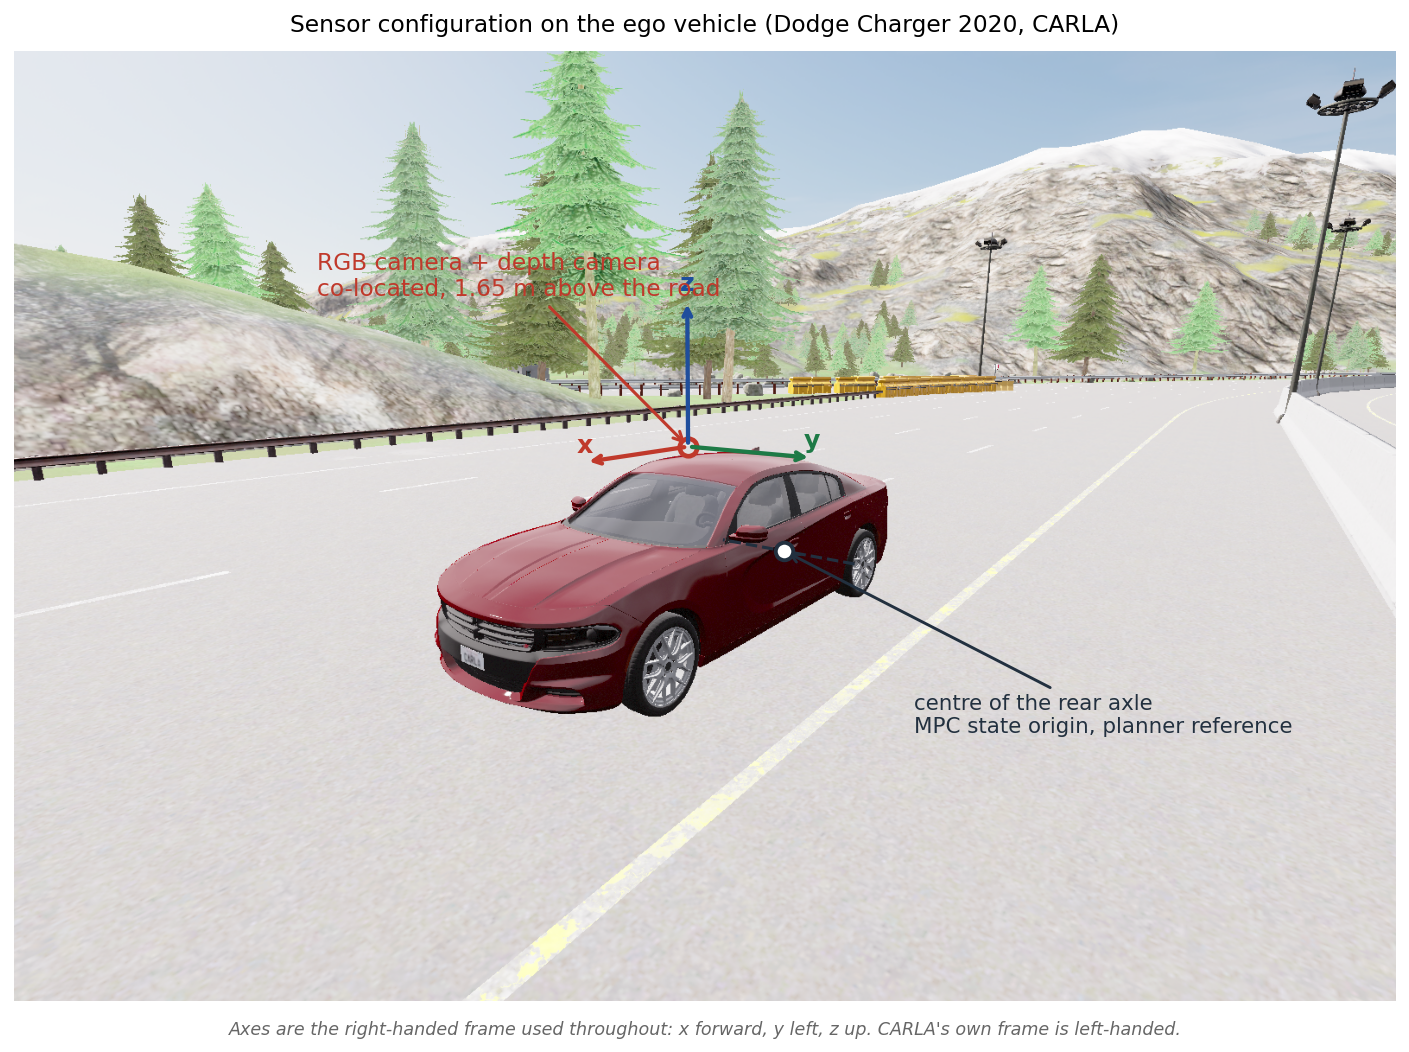
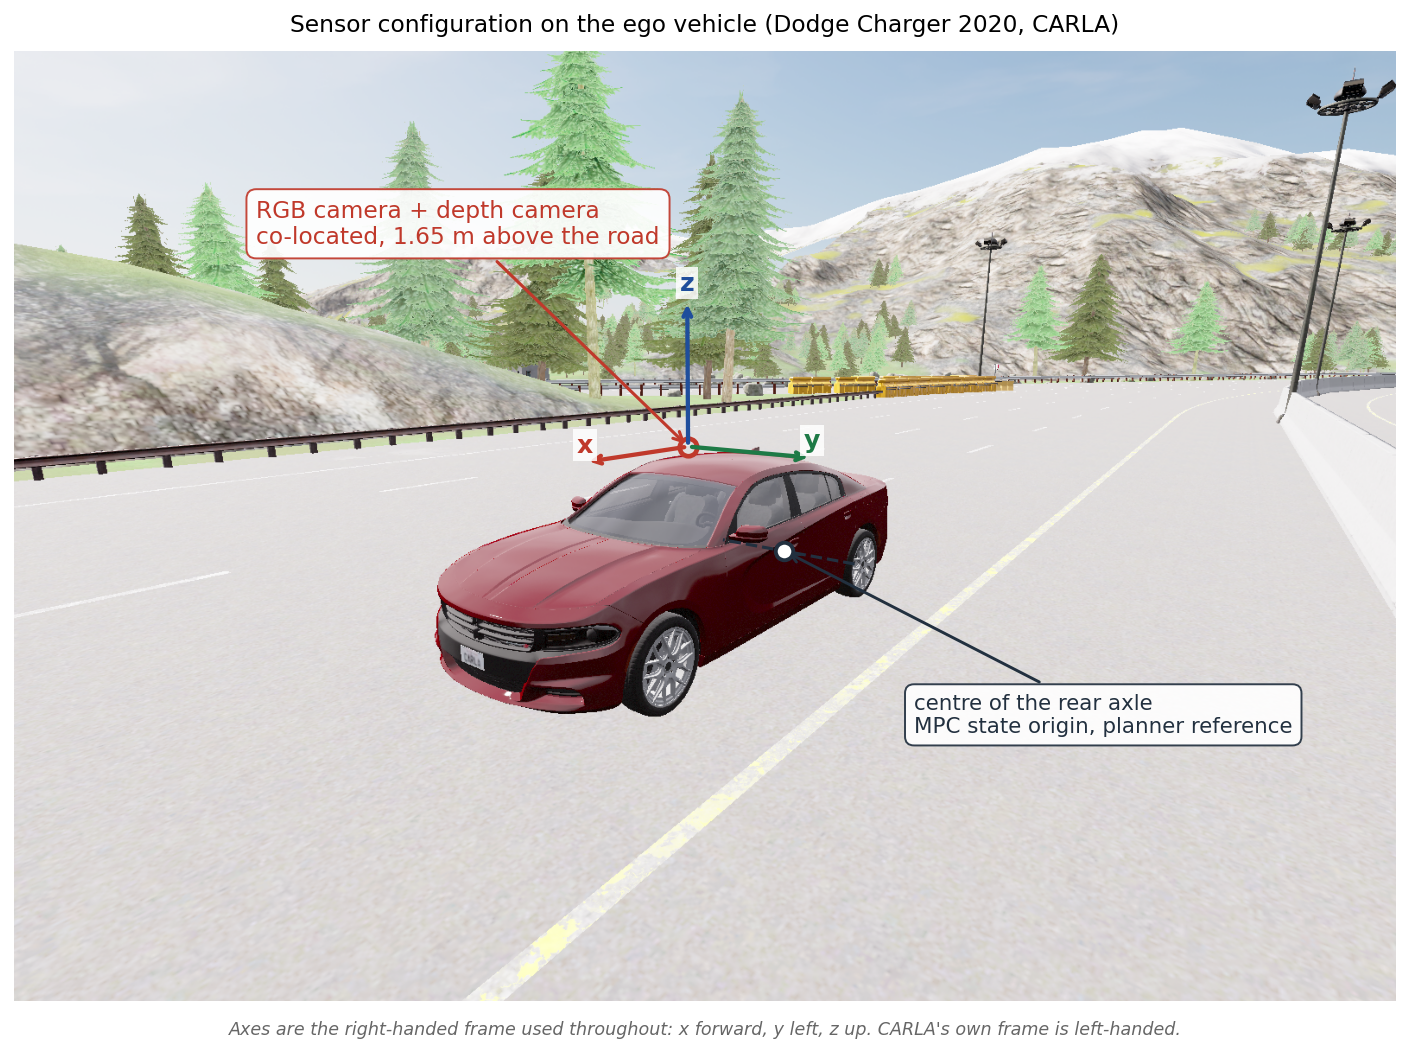
style: give the rig labels a background so they stay readable over the scene
Teks merah di atas pohon dan gunung hampir tidak terbaca. Kedua anotasi kini
punya latar putih berbingkai warna anotasinya sendiri, dan huruf sumbu x/y/z
diberi latar rapat tanpa bingkai.

Kotak teks kamera digeser lebih ke kiri-atas: di posisi lama ia menutupi label
sumbu z. Huruf sumbu juga dinaikkan zorder-nya supaya tergambar di atas kotak,
bukan tertimpa.

Perlakuan yang sama diberikan ke tampak atas hasil render, karena labelnya jatuh
di atas bodi mobil.

diff --git a/show_rig.py b/show_rig.py
@@ -109,18 +109,22 @@ def foto():
     ax.imshow(rgb); ax.axis('off')
     for (ux, uy), warna, nama in zip(ujung, (AKSEN, HIJAU, BIRU), ('x', 'y', 'z')):
         ax.annotate('', (ux, uy), uv_s, arrowprops=dict(arrowstyle='->', color=warna, lw=2.2))
-        ax.text(ux, uy - 12, nama, color=warna, fontsize=13, fontweight='bold', ha='center')
+        ax.text(ux, uy - 12, nama, color=warna, fontsize=13, fontweight='bold', ha='center',
+                zorder=8,
+                bbox=dict(boxstyle='square,pad=0.15', fc='white', ec='none', alpha=.85))
     ax.plot(*uv_s, marker='o', ms=9, mfc='none', mec=AKSEN, mew=2.4)
     ax.annotate('RGB camera + depth camera\nco-located, 1.65 m above the road',
-                uv_s, xytext=(uv_s[0] - 430, uv_s[1] - 175), color=AKSEN, fontsize=12,
-                arrowprops=dict(arrowstyle='->', color=AKSEN, lw=1.6))
+                uv_s, xytext=(uv_s[0] - 500, uv_s[1] - 235), color=AKSEN, fontsize=12,
+                arrowprops=dict(arrowstyle='->', color=AKSEN, lw=1.6),
+                bbox=dict(boxstyle='round,pad=0.42', fc='white', ec=AKSEN, lw=1.0, alpha=.92))
     # Ditaruh jauh ke kiri-bawah: di dekat markernya, teks ini jatuh di atas bodi.
     ax.plot(axle[:, 0], axle[:, 1], ls='--', lw=1.6, color=GARIS, zorder=4)
     ax.plot(*sumbu_belakang, marker='o', ms=9, mfc='white', mec=GARIS, mew=2.0, zorder=5)
     ax.annotate('centre of the rear axle\nMPC state origin, planner reference', sumbu_belakang,
                 xytext=(sumbu_belakang[0] + 150, sumbu_belakang[1] + 210),
                 color=GARIS, fontsize=11,
-                arrowprops=dict(arrowstyle='->', color=GARIS, lw=1.5))
+                arrowprops=dict(arrowstyle='->', color=GARIS, lw=1.5),
+                bbox=dict(boxstyle='round,pad=0.42', fc='white', ec=GARIS, lw=1.0, alpha=.92))
     ax.text(0.5, -0.035, 'Axes are the right-handed frame used throughout: '
                          'x forward, y left, z up. CARLA\'s own frame is left-handed.',
             transform=ax.transAxes, ha='center', fontsize=9, color='0.4', style='italic')
@@ -231,11 +235,13 @@ def tampak_atas_foto():
     # ditaruh di atas, berseberangan dengan label kamera.
     ax.annotate('centre of the rear axle\nMPC state origin', p_ax,
                 xytext=(p_ax[0] - 60, p_ax[1] - 215), ha='center', color=GARIS, fontsize=11,
-                arrowprops=dict(arrowstyle='->', color=GARIS, lw=1.5))
+                arrowprops=dict(arrowstyle='->', color=GARIS, lw=1.5),
+                bbox=dict(boxstyle='round,pad=0.42', fc='white', ec=GARIS, lw=1.0, alpha=.92))
     ax.plot(*p_sen, marker='s', ms=11, mfc=AKSEN, mec='white', mew=1.4, zorder=5)
     ax.annotate('RGB + depth camera\n1.65 m above the road', p_sen,
                 xytext=(p_sen[0] + 40, p_sen[1] - 215), ha='center', color=AKSEN, fontsize=11,
-                arrowprops=dict(arrowstyle='->', color=AKSEN, lw=1.5))
+                arrowprops=dict(arrowstyle='->', color=AKSEN, lw=1.5),
+                bbox=dict(boxstyle='round,pad=0.42', fc='white', ec=AKSEN, lw=1.0, alpha=.92))
 
     def ukur(a, b, dy, teks, warna=GARIS):
         ya = (a[1] + b[1]) / 2 + dy
